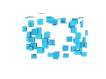
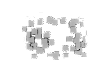
Add particle effect, new pic for potion , split enemy from model to reduce code size

Changed region(s): [[0.1981, 0.2025, 0.8491, 0.7595], [0.3396, 0.1519, 0.4245, 0.1772]]

diff --git a/SpacePioneer.py b/SpacePioneer.py
@@ -2,8 +2,9 @@ import arcade
 import random
 import math
 from random import randint
-from models import Player,Laser,Enemy1,Falling
-from misc import Background, Explosion , Potion
+from models import Player,Laser
+from enemy import Enemy1,Laser_E,Enemy2
+from misc import Background, Explosion , Potion , Falling , Particle
 SCREEN_WIDTH = 480
 SCREEN_HEIGHT = 640
 SPRITE_SCALING = 0.6
@@ -170,14 +171,91 @@ class SpaceGameWindow(arcade.Window):
 
                 self.asteroid_list.append(enemy_sprite)
 
+    def particle_asteroid(self, asteroid: Particle):
+       # print("split")
+        x = asteroid.center_x
+        y = asteroid.center_y
+        
+
+        if asteroid.size == 3:
+            for i in range(10):
+                image_no = random.randrange(2)
+                image_list = ["images/testParticle.png",
+                              "images/testParticle1.png"]
+
+                enemy_sprite = Particle(image_list[image_no],
+                                              SPRITE_SCALING )
+                enemy_sprite.center_y = y
+                enemy_sprite.center_x = x
+                enemy_sprite.change_x = random.random() * 2.5 - 1.25
+                enemy_sprite.change_y = random.random() * 2.5 - 1.25
+                enemy_sprite.change_angle = (random.random() - 0.5) * 2
+                self.all_sprites_list.append(enemy_sprite)
+       
+        elif asteroid.size == 2:
+            for i in range(6):
+                image_no = random.randrange(2)
+                image_list = ["images/testParticle.png",
+                              "images/testParticle1.png"]
+
+                enemy_sprite = Particle(image_list[image_no],
+                                              SPRITE_SCALING  )
+                enemy_sprite.center_y = y
+                enemy_sprite.center_x = x
+                enemy_sprite.change_x = random.random() * 3.5 - 1.75
+                enemy_sprite.change_y = random.random() * 3.5 - 1.75
+                enemy_sprite.change_angle = (random.random() - 0.5) * 2
+                enemy_sprite.size = 1
+
+
+                self.all_sprites_list.append(enemy_sprite)
+
+        elif asteroid.size == 1:
+            for i in range(6):
+                image_no = random.randrange(2)
+                image_list = ["images/testParticle.png",
+                              "images/testParticle1.png"]
+
+                enemy_sprite = Particle(image_list[image_no],
+                                              SPRITE_SCALING  )
+                enemy_sprite.center_y = y
+                enemy_sprite.center_x = x
+                enemy_sprite.change_x = random.random() * 3.5 - 1.75
+                enemy_sprite.change_y = random.random() * 3.5 - 1.75
+                enemy_sprite.change_angle = (random.random() - 0.5) * 2
+                enemy_sprite.size = 0
+                self.all_sprites_list.append(enemy_sprite)
+
+    def particle_asteroid(self, enemy: Particle):
+       # print("split")
+        x = enemy.center_x
+        y = enemy.center_y
+        
+        for i in range(10):
+            image_no = random.randrange(2)
+            image_list = ["images/testParticle.png",
+                            "images/testParticle1.png"]
+
+            enemy_sprite = Particle(image_list[image_no],
+                                            SPRITE_SCALING )
+            enemy_sprite.center_y = y
+            enemy_sprite.center_x = x
+            enemy_sprite.change_x = random.random() * 2.5 - 1.25
+            enemy_sprite.change_y = random.random() * 2.5 - 1.25
+            enemy_sprite.change_angle = (random.random() - 0.5) * 2
+            self.all_sprites_list.append(enemy_sprite)
+       
+        
+
     def update(self, delta):
-        self.background_list.update()
         if self.current_state == GAME_RUNNING:
             if not self.game_over:
+                self.background_list.update()
+                self.laser_e_list.update()
+                self.all_sprites_list.update()
                 for enemy in self.enemy_list:
                     enemy.update(delta)
                 self.all_sprites_list.update()
-                self.laser_e_list.update()
                 for asteroid in self.asteroid_list:         
                     if asteroid.bottom < -5:
                         asteroid.kill()  
@@ -185,19 +263,30 @@ class SpaceGameWindow(arcade.Window):
                 self.laser_list.update()
                 self.cure_list.update()
                 self.life_list.update()
-                if self.counter % 75 == 0 and len(self.enemy_list) < MAX_ENEMY1:
+                if self.counter % 120 == 0 and len(self.enemy_list) < MAX_ENEMY1:
 
-                    self.enemy1_sprite = Enemy1("images/spaceship1.png", SPRITE_SCALING)
+                    enemy = Enemy1("images/spaceship1.png", SPRITE_SCALING)
                     choice = [60, 100, 140, 180, 220, 260, 300, 340, 380, 420, 460]
                     spawn_x = randint(0, len(choice)-1)
-                    self.enemy1_sprite.setup(choice.pop(random.randrange(len(choice))), 0 ,  self.laser_e_list)
-                    self.enemy1_sprite.center_y = SCREEN_HEIGHT + 20
+                    enemy.setup(choice.pop(random.randrange(len(choice))), SCREEN_HEIGHT+20 ,  self.laser_e_list)
+                    #self.enemy1_sprite.center_y = randint(SCREEN_HEIGHT ,SCREEN_HEIGHT+20)
                     #self.enemy1_sprite.center_x = randint(40,440)
                     choice.remove(random.choice(choice))
-                    self.enemy_list.append(self.enemy1_sprite)
+                    self.enemy_list.append(enemy)
 
-                if self.counter == 1:
-                    self.cure = Potion("images/Health.png", SPRITE_SCALING * 2.5)
+                if self.counter == 2400 and len(self.enemy_list) < MAX_ENEMY1:
+
+                    enemy = Enemy2("images/spaceship2.png", SPRITE_SCALING)
+                    choice = [60, 100, 140, 180, 220, 260, 300, 340, 380, 420, 460]
+                    spawn_x = randint(0, len(choice)-1)
+                    enemy.setup(choice.pop(random.randrange(len(choice))), SCREEN_HEIGHT+20 ,  self.laser_e_list)
+                    #self.enemy1_sprite.center_y = randint(SCREEN_HEIGHT ,SCREEN_HEIGHT+20)
+                    #self.enemy1_sprite.center_x = randint(40,440)
+                    choice.remove(random.choice(choice))
+                    self.enemy_list.append(enemy)
+
+                if self.counter % 1800 == 0:
+                    self.cure = Potion("images/Health.png", SPRITE_SCALING/1.5 )
                     self.cure.center_x = random.randrange(SCREEN_WIDTH)
                     self.cure.center_y = random.randrange(SCREEN_HEIGHT, SCREEN_HEIGHT * 2)
                     self.cure_list.append(self.cure)
@@ -216,6 +305,7 @@ class SpaceGameWindow(arcade.Window):
                                     blast.setup(asteroid.center_x, asteroid.center_y)
                                     self.blast_list.append(blast)
                             self.split_asteroid(asteroid)
+                            self.particle_asteroid(asteroid)
                             
                             
                         
@@ -225,7 +315,7 @@ class SpaceGameWindow(arcade.Window):
                     
                     if len(asteroids) > 0:
                         if self.lives > 0:
-                            for i in range(1, 12):
+                            for i in range(1,12):
                                 blast = Explosion("images/Explosion/crash/crash"+str(i)+".png", SPRITE_SCALING)
                                 blast.setup(self.player.center_x, self.player.center_y)
                                 self.blast_list.append(blast)
@@ -286,6 +376,7 @@ class SpaceGameWindow(arcade.Window):
                                 blast = Explosion("images/Explosion/images/explosion"+str(i)+".png", SPRITE_SCALING)
                                 blast.setup(enemy.center_x, enemy.center_y)
                                 self.blast_list.append(blast)
+                            self.particle_asteroid(enemy)    
                         self.score += 5
             ##### DELAY BLAST #####
                 self.blast_time += delta

diff --git a/models.py b/models.py
@@ -15,9 +15,7 @@ SPRITE_SCALING = 0.7
 class Laser(arcade.Sprite):
     def update(self):
         self.center_y += LASER_SPEED
-class Laser_E(arcade.Sprite):
-    def update(self):
-        self.center_y -= LASER_SPEED-9
+
 class Player(arcade.Sprite):
     def setup(self, x, y,  laser_list):
         self.laser_list = laser_list
@@ -73,77 +71,5 @@ class Player(arcade.Sprite):
             if laser.top > 645:
                 laser.kill()  
 
-####    Asteroid ####
-class Falling(arcade.Sprite):
-    def update(self):
-        super().update()
-        self.center_y -= 2
+
         
-####   Enemy1 ####
-class Enemy1(arcade.Sprite):
-    def setup(self, x, y,  laser_e_list):   
-        self.laser_e_list = laser_e_list
-        self.center_x = x
-        self.center_y = y
-        self.pos_y = randint(440, 540)
-        self.frame_count = 0 
-
-    def shoot(self):
-        laser_e = Laser_E("images/laser2.png", SPRITE_SCALING * 1.5)
-        laser_e.center_x = self.center_x
-        laser_e.bottom = self.top -20
-        laser_e.center_x = self.center_x
-        laser_e.top = self.bottom
-        self.laser_e_list.append(laser_e)
-
-    def update(self,delta):
-        self.frame_count += 1
-        self.center_y -= 3
-        if self.top < 620:
-            self.top = 620
-        
-        self.laser_e_list.update()
-        if self.frame_count % 75 == 0:
-            self.shoot()
-        for laser_e in self.laser_e_list:         
-            if laser_e.bottom < 0:
-                laser_e.kill()
-
-
-####   Enemy2 ####
-class Enemy2(arcade.Sprite):
-    def setup(self, x, y, all_sprites_list, laser_e_list):
-        self.all_sprites_list = all_sprites_list
-        self.laser_e_list = arcade.SpriteList()
-        self.center_x = x
-        self.center_y = y
-        self.center_y -= random.randrange(SCREEN_HEIGHT, SCREEN_HEIGHT * 50)
-        self.center_x -= random.randrange(SCREEN_WIDTH-10)
-
-        self.wait_time = 0
-        self.frame_count = 0 
-
-    def shoot(self):
-        laser_e = Laser_E("images/laser2.png", SPRITE_SCALING * 1.5)
-        laser_e.center_x = self.center_x
-        laser_e.bottom = self.top -20
-        
-        
-        laser_e.center_x = self.center_x
-        laser_e.top = self.bottom
-        
-        self.all_sprites_list.append(laser_e)
-        #self.laser_list.append(laser)
-
-    def update(self):
-        self.frame_count += 1
-        self.center_y -= 3
-        if self.top < 620:
-            self.top = 620
-        
-        self.laser_e_list.update()
-        if self.frame_count % 75 == 0:
-            self.shoot()
-        for laser_e in self.laser_e_list:         
-            if laser_e.bottom < 0:
-                laser_e.kill()

diff --git a/enemy.py b/enemy.py
@@ -1,0 +1,71 @@
+import arcade.key
+import random
+import math
+from random import randint
+from models import Player
+SCREEN_WIDTH = 480
+SCREEN_HEIGHT = 640
+MOVEMENT_SPEED = 6
+LASER_SPEED = 10
+SPRITE_SCALING = 0.7
+
+class Laser_E(arcade.Sprite):
+    def setup(self, x, y):
+        self.center_x = x
+        self.top = y
+    def update(self):
+        self.center_y -= LASER_SPEED-9
+
+class Enemy1(arcade.Sprite):
+    def setup(self, x, y,  laser_e_list):   
+        self.laser_e_list = laser_e_list
+        self.center_x = x
+        self.center_y = y
+        choice_y = [460,475,495,525,555]
+        self.pos_y = choice_y.pop(random.randrange(len(choice_y)))
+        self.frame_count = 0 
+
+    def shoot(self):
+        laser_e = Laser_E("images/laser2.png", SPRITE_SCALING * 1.5)
+        laser_e.setup(self.center_x,self.center_y)
+        self.laser_e_list.append(laser_e)
+
+    def update(self,delta):
+        self.frame_count += 1
+        if self.center_y > self.pos_y:
+            self.center_y -= 3
+
+        
+        self.laser_e_list.update()
+        if self.frame_count % 75 == 0:
+            self.shoot()
+        for laser_e in self.laser_e_list:         
+            if laser_e.bottom < 0:
+                laser_e.kill()
+
+class Enemy2(arcade.Sprite):
+    def setup(self, x, y,  laser_e_list):   
+        self.laser_e_list = laser_e_list
+        self.center_x = x
+        self.center_y = y
+        choice_y = [460,475,495,525,555]
+        self.pos_y = choice_y.pop(random.randrange(len(choice_y)))
+        self.frame_count = 0 
+
+    def shoot(self):
+        laser_e = Laser_E("images/laser2.png", SPRITE_SCALING * 1.5)
+        laser_e.setup(self.center_x,self.center_y)
+        self.laser_e_list.append(laser_e)
+
+    def update(self,delta):
+        self.frame_count += 1
+        if self.center_y > self.pos_y:
+            self.center_y -= 3
+
+        
+        self.laser_e_list.update()
+        if self.frame_count % 75 == 0:
+            self.shoot()
+        for laser_e in self.laser_e_list:         
+            if laser_e.bottom < 0:
+                laser_e.kill()

diff --git a/misc.py b/misc.py
@@ -24,3 +24,15 @@ class Explosion(arcade.Sprite):
 class Potion(arcade.Sprite):
     def update(self):
         self.center_y -= 2     
+
+class Falling(arcade.Sprite):
+    def update(self):
+        super().update()
+        self.center_y -= 2
+
+class Particle(arcade.Sprite):
+    def update(self):
+        super().update()
+        self.center_y -= 0.5
+
+            
